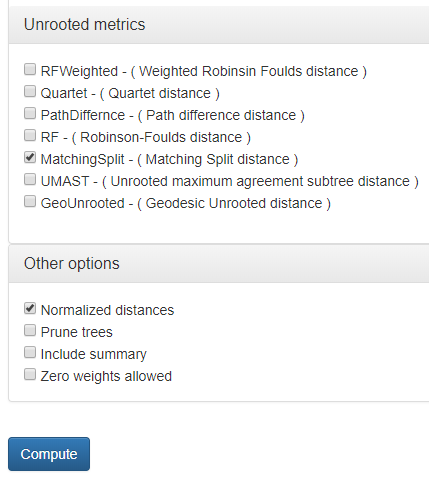
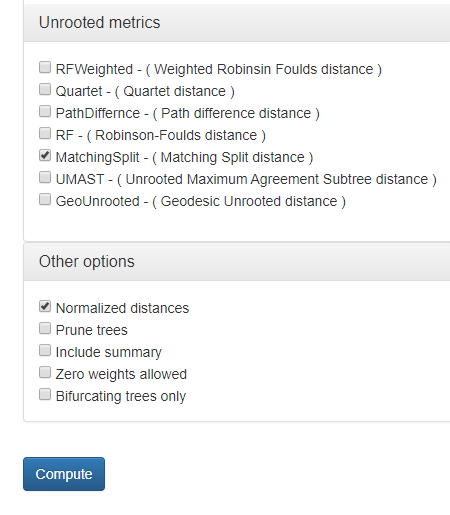
updated manual_tree_cmp.html

diff --git a/src/main/resources/static/manual_tree_cmp.html b/src/main/resources/static/manual_tree_cmp.html
@@ -171,6 +171,9 @@
                 <li>
                     <strong> Zero weights allowed </strong> during using weighted metrics. If there is no weight assigned to the edge, its default value will be set to zero.
                 </li>
+                <li>
+                    Allow <strong> only bifurcating trees</strong>.
+                </li>            
             </ul>
         <p>In the last step, click Compute button to generate report (Fig 6).</p>
         </p>
@@ -501,8 +504,14 @@
 
         <h3>Exporting data to other applications: MS Excel, R</h3>
         <p>
-            In order to export data to MS Excel open the output file in any text editor and use copy and paste mechanism.
-            Alternatively, you can open the input file directly in MS Excel application using the tabular character as a filed separator.</p>
+            The report can be easily copied to clipboard, saved in one of three formats: MsExcel, CSV or PDF or printed, see Fig. 12.
+        </p>
+        <div class="row">
+            <div class="col-sm-9 col-md-9 col-lg-9 imageContainer">
+                <img class="img-responsive" height="400px" src="img/fig12.png" style="border: 1px solid">
+                <p>Fig. 12</p>
+            </div>
+        </div>
         <p>
             In order to pass data to R (http://www.r-project.org/) it is convenient to have the TreeCmp result file in a simple tabular form (therefore, it is recommended to avoid Include summary option, because it results in generation the summary section, which disturb the tabular order).
             Such files can be easily read by R environment by using for example the read.table function as follows:
